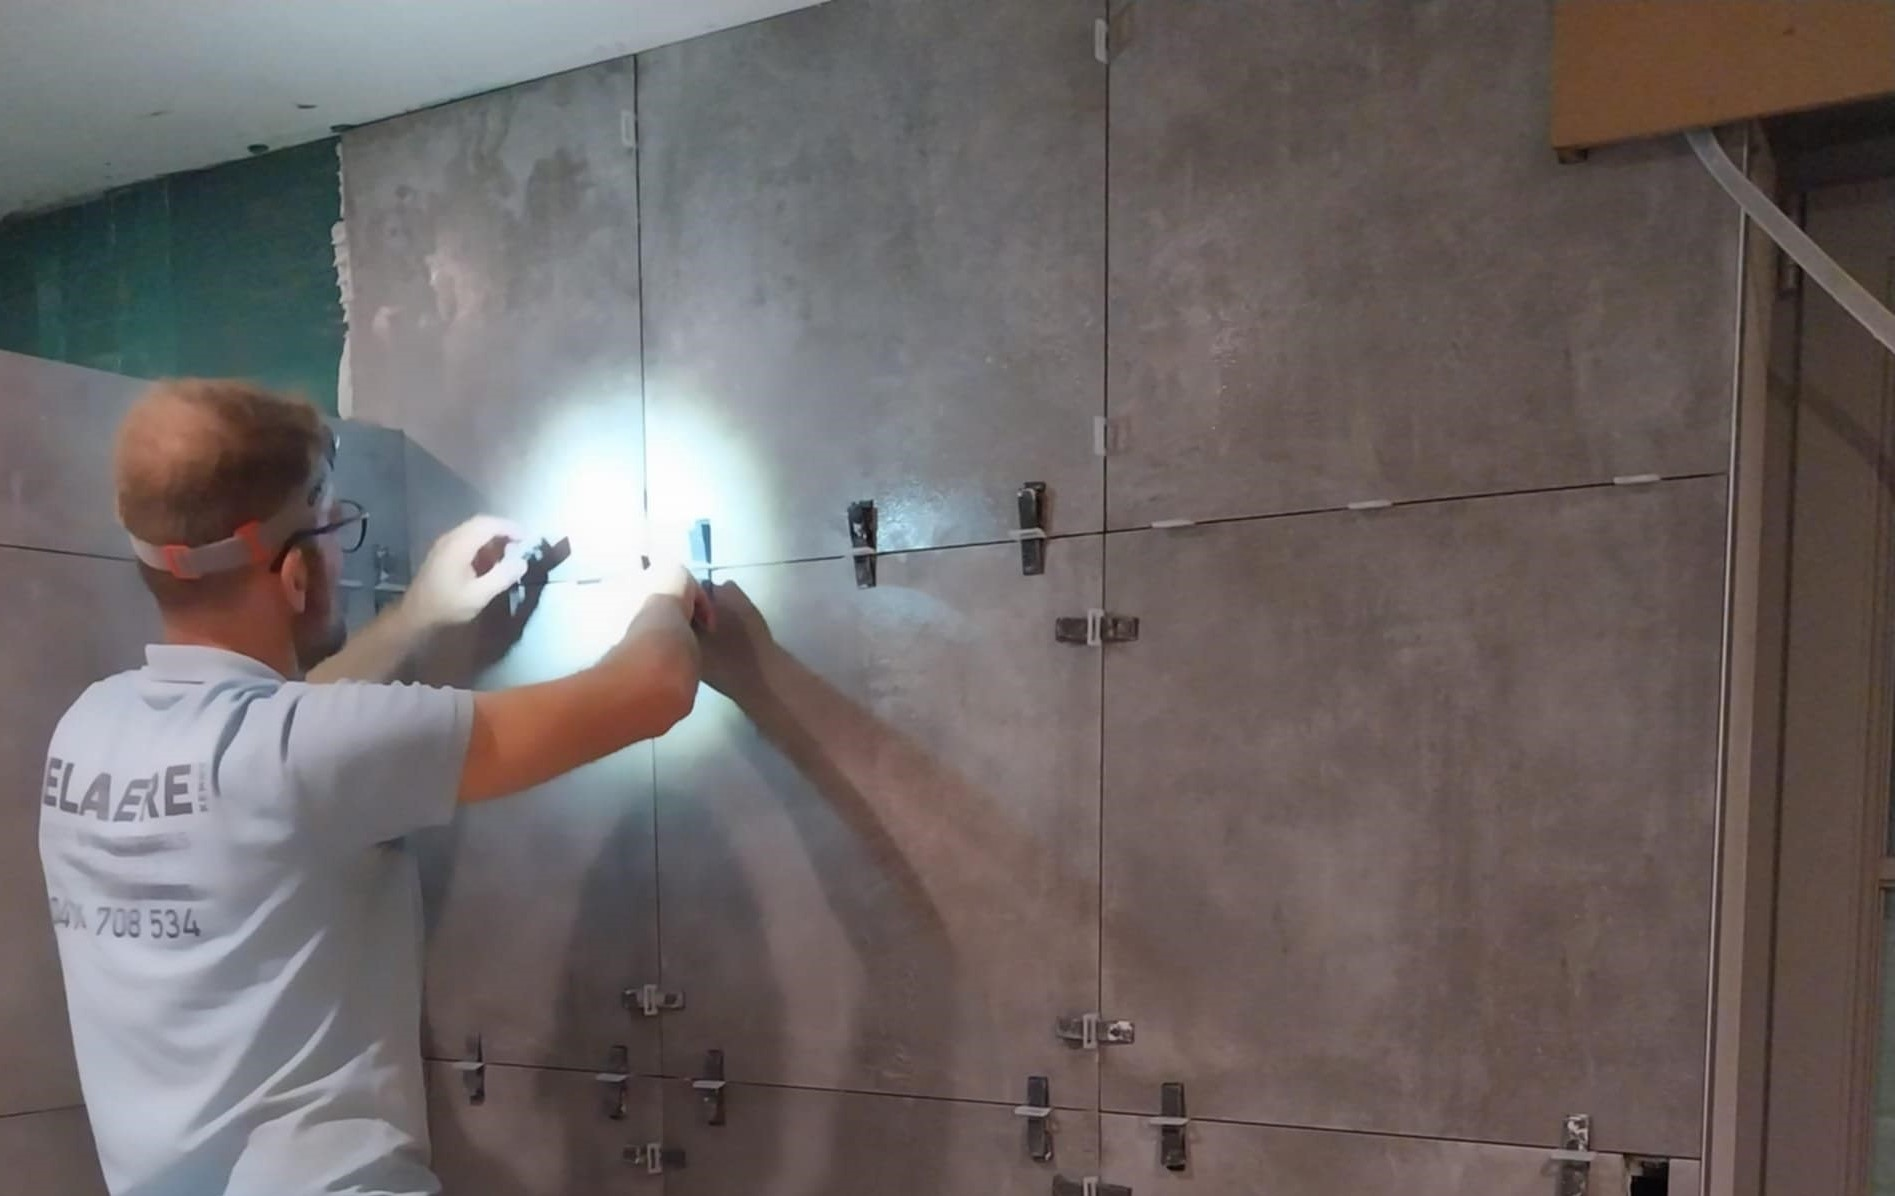
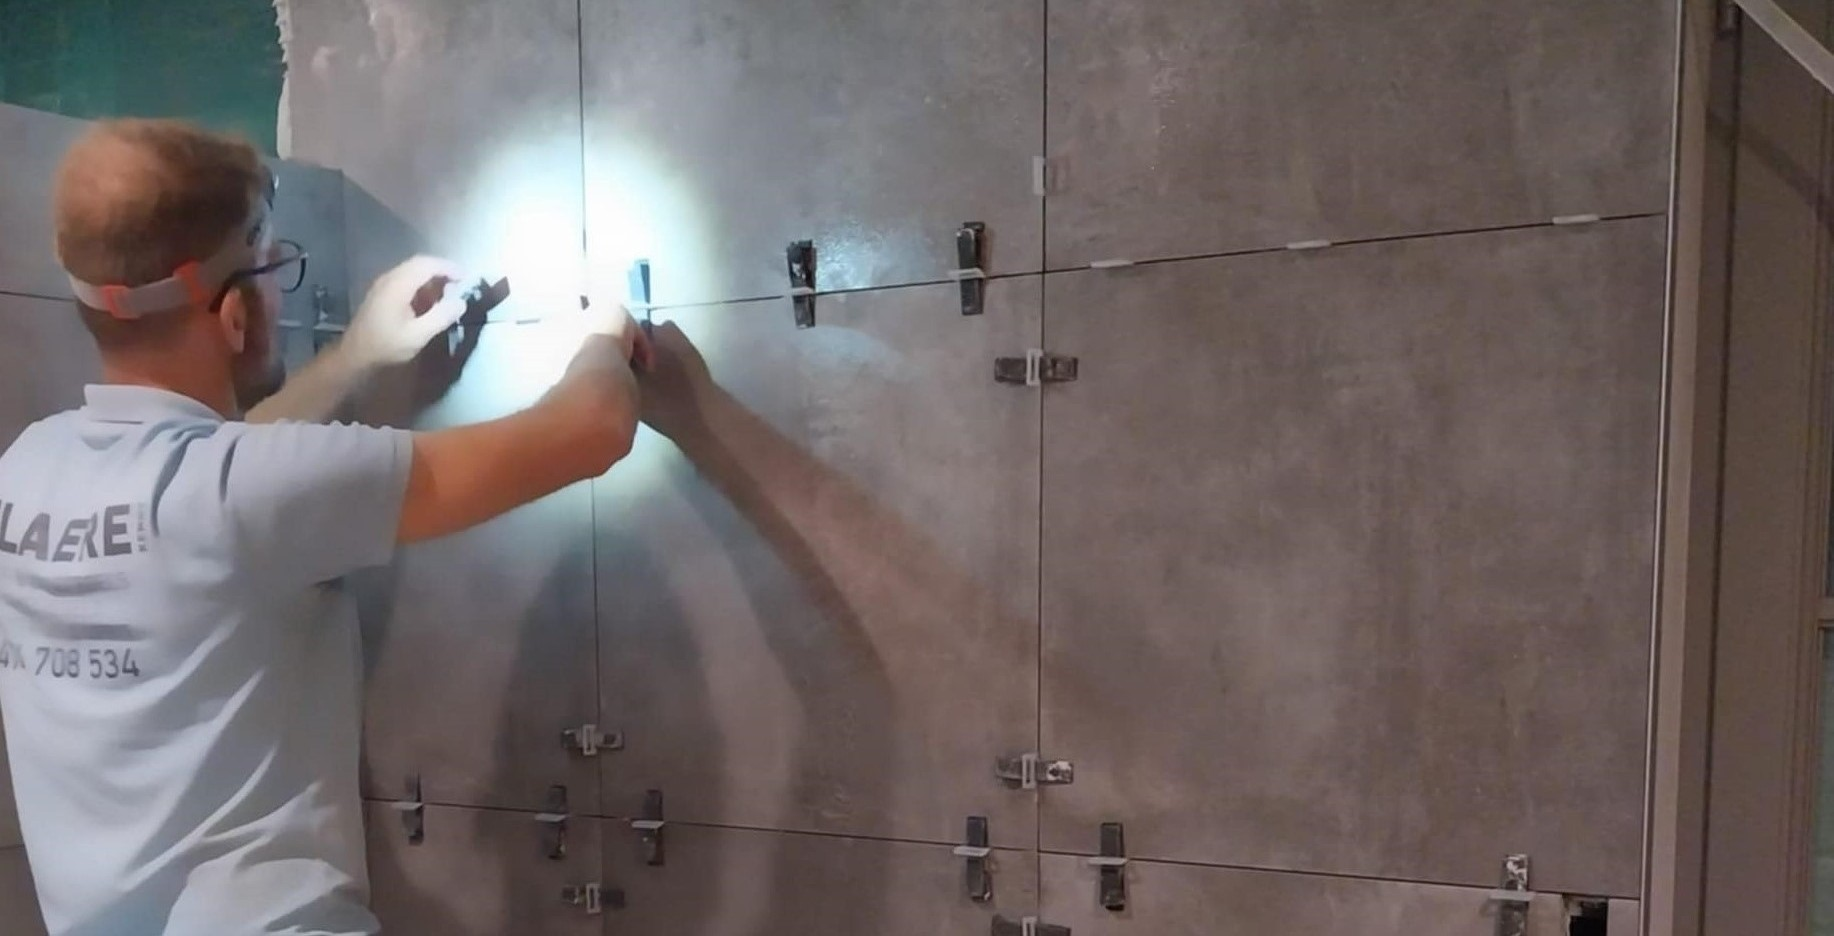
Fix diensten main photo

diff --git a/diensten/index.html b/diensten/index.html
@@ -82,14 +82,18 @@
     </section>
 
     <!-- Hero Section -->
-    <section id="hero" class="bg-cover bg-center h-96 flex items-center justify-center text-white"
-      style="background-image: url('../images/dienstenhoofdfoto.jpg');">
-      <div class="text-center max-md:hidden">
-        <h1 class="font-bold" style="font-size: 72px;">Diensten</h1>
+    <section id="hero" class="bg-cover bg-center max-md:hidden h-96 flex items-center justify-center text-white"
+      style="background-image: url('../images/dienstenhoofdfoto3.jpg');">
+      <div class="text-center">
+        <h1 class="font-bold" style="font-size: 44px;">Diensten</h1>
         <p class="mt-3 text-xl">Vraag gratis een offerte aan.</p>
         <p class="mt-3 text-xl">Wij trachten steeds binnen 3 werkdagen te antwoorden op uw aanvragen.</p>
       </div>
-      <div class="text-center md:hidden">
+    </section>
+
+    <section id="hero" class="bg-cover bg-center md:hidden h-96 flex items-center justify-center text-white"
+      style="background-image: url('../images/dienstenhoofdfoto4.jpg');">
+      <div class="text-center">
         <h1 class="font-bold" style="font-size: 44px;">Diensten</h1>
         <p class="mt-3 text-xl">Vraag gratis een offerte aan.</p>
         <p class="mt-3 text-xl">Wij trachten steeds binnen 3 werkdagen te antwoorden op uw aanvragen.</p>
@@ -317,4 +321,5 @@
       </div>
     </footer>
 </body>
+
 </html>
